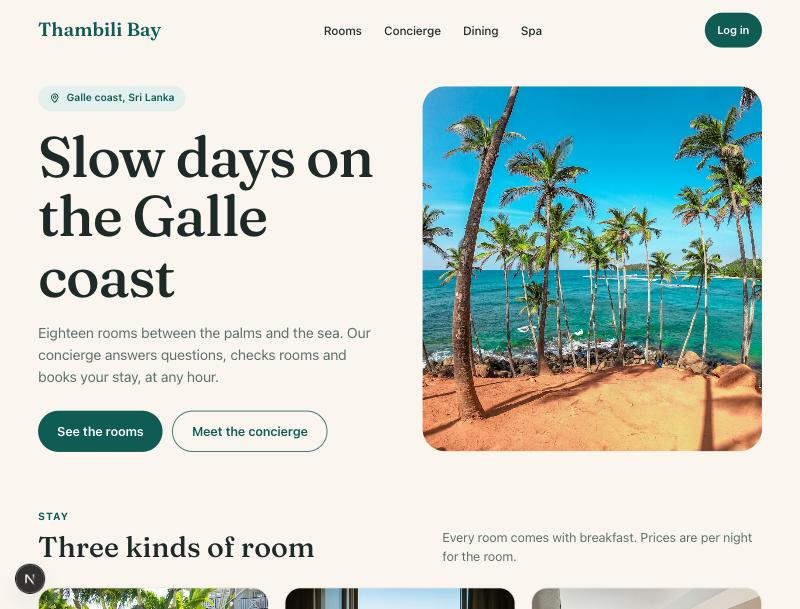
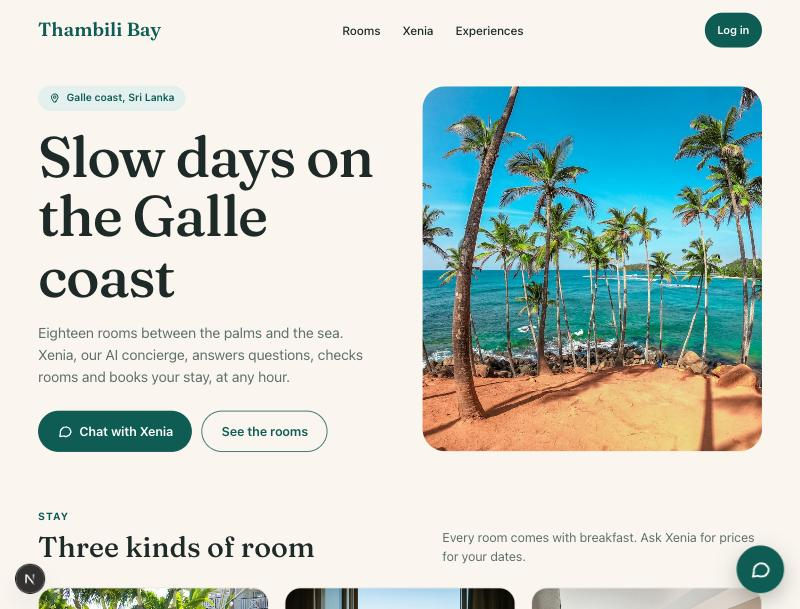
feat: show the Xenia chat panel after login and gate chat buttons behind login (web-0005)

diff --git a/src/components/ChatProvider.tsx b/src/components/ChatProvider.tsx
@@ -1,0 +1,192 @@
+"use client";
+
+import { onAuthStateChanged, type User } from "firebase/auth";
+import Link from "next/link";
+import { createContext, useContext, useEffect, useState, type ReactNode } from "react";
+import { auth } from "@/lib/firebase";
+
+type ChatState = {
+  // undefined = still checking, null = signed out
+  user: User | null | undefined;
+  open: boolean;
+  setOpen: (open: boolean) => void;
+};
+
+const ChatContext = createContext<ChatState | null>(null);
+const STORAGE_KEY = "chat-panel";
+
+function useChat() {
+  const state = useContext(ChatContext);
+  if (!state) throw new Error("useChat must be used inside ChatProvider");
+  return state;
+}
+
+// sessionStorage can throw in private windows; the panel works without it.
+function remember(value: "open" | "closed" | null) {
+  try {
+    if (value) sessionStorage.setItem(STORAGE_KEY, value);
+    else sessionStorage.removeItem(STORAGE_KEY);
+  } catch {}
+}
+
+function wasClosed() {
+  try {
+    return sessionStorage.getItem(STORAGE_KEY) === "closed";
+  } catch {
+    return false;
+  }
+}
+
+const chatIcon = (
+  <svg aria-hidden="true" width="20" height="20" viewBox="0 0 24 24" fill="none" stroke="currentColor" strokeWidth="2" strokeLinecap="round" strokeLinejoin="round">
+    <path d="M21 12a8 8 0 0 1-11.6 7.1L4 20l1-4.6A8 8 0 1 1 21 12z" />
+  </svg>
+);
+
+/** Holds the login and chat-panel state, and lays out the page beside the panel. */
+export function ChatProvider({ children }: { children: ReactNode }) {
+  const [user, setUser] = useState<User | null | undefined>(undefined);
+  const [open, setOpenState] = useState(false);
+
+  useEffect(
+    () =>
+      onAuthStateChanged(auth, (next) => {
+        setUser(next);
+        if (!next) remember(null);
+        // The chat opens after login, unless the visitor closed it earlier in this tab.
+        setOpenState(Boolean(next) && !wasClosed());
+      }),
+    [],
+  );
+
+  function setOpen(next: boolean) {
+    setOpenState(next);
+    remember(next ? "open" : "closed");
+  }
+
+  const showPanel = Boolean(user) && open;
+
+  useEffect(() => {
+    if (!showPanel) return;
+    const onKey = (event: KeyboardEvent) => {
+      if (event.key === "Escape") setOpen(false);
+    };
+    window.addEventListener("keydown", onKey);
+    return () => window.removeEventListener("keydown", onKey);
+  }, [showPanel]);
+
+  return (
+    <ChatContext.Provider value={{ user, open, setOpen }}>
+      {/* On very wide screens the page moves over; on smaller ones the panel sits on top. */}
+      <div className={showPanel ? "xl:mr-[380px]" : undefined}>
+        <div className="mx-auto flex min-h-dvh w-full max-w-[1200px] flex-col">{children}</div>
+      </div>
+      {showPanel && user ? <ChatPanel user={user} onClose={() => setOpen(false)} /> : <ChatLauncher />}
+    </ChatContext.Provider>
+  );
+}
+
+/** A button that opens the chat, or leads to the login page when signed out. */
+export function ChatCta({ className, children }: { className?: string; children: ReactNode }) {
+  const { user, setOpen } = useChat();
+  if (user) {
+    return (
+      <button type="button" className={className} onClick={() => setOpen(true)}>
+        {chatIcon}
+        {children}
+      </button>
+    );
+  }
+  return (
+    <Link href="/login" className={className}>
+      {chatIcon}
+      {children}
+    </Link>
+  );
+}
+
+function ChatLauncher() {
+  const { user } = useChat();
+  // Nothing while the login state is still loading, so the button never changes meaning mid-click.
+  if (user === undefined) return null;
+  return (
+    <ChatCta className="fixed right-5 bottom-5 z-40 flex size-15 items-center justify-center rounded-full bg-brand text-white shadow-[0_10px_28px_rgba(30,42,40,0.3)] [&>svg]:size-7">
+      <span className="sr-only">{user ? "Open chat with Xenia" : "Log in to chat with Xenia"}</span>
+    </ChatCta>
+  );
+}
+
+function ChatPanel({ user, onClose }: { user: User; onClose: () => void }) {
+  const firstName = user.displayName?.split(" ")[0];
+  return (
+    <aside
+      aria-label="Chat with Xenia, the AI concierge"
+      className="fixed inset-0 z-50 flex flex-col bg-bg lg:left-auto lg:w-[380px] lg:border-l lg:border-line lg:shadow-[-12px_0_40px_rgba(30,42,40,0.12)]"
+    >
+      <div className="flex items-center gap-3 bg-brand py-3 pr-2 pl-2 text-white lg:pl-4">
+        <button
+          type="button"
+          aria-label="Back to the site"
+          className="flex size-11 flex-none items-center justify-center rounded-full lg:hidden"
+          onClick={onClose}
+        >
+          <svg aria-hidden="true" width="20" height="20" viewBox="0 0 24 24" fill="none" stroke="currentColor" strokeWidth="2.2" strokeLinecap="round" strokeLinejoin="round">
+            <path d="M19 12H5M11 6l-6 6 6 6" />
+          </svg>
+        </button>
+        <div aria-hidden="true" className="flex size-10 flex-none items-center justify-center rounded-full bg-white font-serif text-xl font-semibold text-brand">
+          X
+        </div>
+        <div className="min-w-0 flex-1">
+          <h2 className="font-serif text-lg leading-tight font-semibold">Xenia</h2>
+          <p className="text-[12.5px]">Thambili Bay&apos;s AI concierge</p>
+        </div>
+        <button
+          type="button"
+          aria-label="Close chat"
+          className="hidden size-11 flex-none items-center justify-center rounded-full lg:flex"
+          onClick={onClose}
+        >
+          <svg aria-hidden="true" width="20" height="20" viewBox="0 0 24 24" fill="none" stroke="currentColor" strokeWidth="2" strokeLinecap="round">
+            <path d="M6 6l12 12M18 6L6 18" />
+          </svg>
+        </button>
+      </div>
+
+      <div aria-live="polite" className="flex min-h-0 flex-1 flex-col gap-2.5 overflow-y-auto p-4">
+        <p className="self-center rounded-full bg-brand-soft px-3 py-1.5 text-center text-[12.5px] text-muted">
+          Demo: please don&apos;t enter real personal details.
+        </p>
+        <p className="max-w-[85%] self-start rounded-2xl rounded-bl-sm border border-line bg-surface px-3.5 py-2.5 text-[15px]">
+          Hello{firstName ? ` ${firstName}` : ""}! I&apos;m Xenia, the concierge at Thambili Bay. Soon I&apos;ll be
+          able to check rooms, make a booking and help during your stay, right here.
+        </p>
+      </div>
+
+      <div className="border-t border-line bg-surface px-3 pt-2.5 pb-[calc(0.625rem+env(safe-area-inset-bottom))]">
+        <form className="flex items-center gap-2" onSubmit={(event) => event.preventDefault()}>
+          <input
+            type="text"
+            aria-label="Type your message"
+            placeholder="Messages open soon"
+            disabled
+            className="h-11 min-w-0 flex-1 rounded-full border border-line bg-bg px-4 text-base text-ink placeholder:text-muted disabled:opacity-70"
+          />
+          <button
+            type="submit"
+            aria-label="Send"
+            disabled
+            className="flex size-11 flex-none items-center justify-center rounded-full bg-brand text-white disabled:opacity-50"
+          >
+            <svg aria-hidden="true" width="20" height="20" viewBox="0 0 24 24" fill="none" stroke="currentColor" strokeWidth="2" strokeLinecap="round" strokeLinejoin="round">
+              <path d="M5 12h14M13 6l6 6-6 6" />
+            </svg>
+          </button>
+        </form>
+        <p className="mt-1.5 text-center text-[11.5px] text-muted">
+          Xenia is an AI and can make mistakes. Demo data only.
+        </p>
+      </div>
+    </aside>
+  );
+}

diff --git a/src/app/page.tsx b/src/app/page.tsx
@@ -1,4 +1,5 @@
 import Image from "next/image";
+import { ChatCta } from "@/components/ChatProvider";
 
 const ROOMS = [
   {
@@ -131,11 +132,11 @@ export default function Home() {
             checks rooms and books your stay, at any hour.
           </p>
           <div className="mt-7 flex flex-wrap gap-3">
-            <a href="#rooms" className="inline-flex min-h-13 items-center rounded-full bg-brand px-6 font-semibold text-white">
+            <ChatCta className="inline-flex min-h-13 items-center gap-2 rounded-full bg-brand px-6 font-semibold text-white">
+              Chat with Xenia
+            </ChatCta>
+            <a href="#rooms" className="inline-flex min-h-13 items-center rounded-full border border-brand px-6 font-semibold text-brand">
               See the rooms
-            </a>
-            <a href="#concierge" className="inline-flex min-h-13 items-center rounded-full border border-brand px-6 font-semibold text-brand">
-              Meet Xenia
             </a>
           </div>
         </div>
@@ -197,9 +198,9 @@ export default function Home() {
             </li>
           ))}
         </ul>
-        <p className="mt-7 inline-flex rounded-full bg-[#0B4741] px-4 py-2 text-sm font-semibold text-[#F2B872]">
-          The chat opens here soon
-        </p>
+        <ChatCta className="mt-7 inline-flex min-h-13 items-center gap-2 rounded-full bg-white px-6 font-semibold text-brand">
+          Chat with Xenia
+        </ChatCta>
       </section>
 
       <section id="experiences" className="mt-18 scroll-mt-6">

diff --git a/src/components/AuthForm.tsx b/src/components/AuthForm.tsx
@@ -20,7 +20,7 @@ const API_URL = process.env.NEXT_PUBLIC_API_URL;
 const COPY = {
   login: {
     title: "Welcome back",
-    intro: "Log in to your Thambili Bay account.",
+    intro: "Log in to chat with Xenia, our AI concierge.",
     submit: "Log in",
     busy: "Logging in…",
     switchText: "New here?",
@@ -29,7 +29,7 @@ const COPY = {
   },
   signup: {
     title: "Create your account",
-    intro: "It takes a minute. Only your name, email and a password are needed.",
+    intro: "Create an account to chat with Xenia, our AI concierge. It takes a minute.",
     submit: "Create account",
     busy: "Creating account…",
     switchText: "Already have an account?",

diff --git a/src/app/layout.tsx b/src/app/layout.tsx
@@ -1,5 +1,6 @@
 import type { Metadata } from "next";
 import { Fraunces } from "next/font/google";
+import { ChatProvider } from "@/components/ChatProvider";
 import { SiteHeader } from "@/components/SiteHeader";
 import "./globals.css";
 
@@ -19,9 +20,11 @@ export default function RootLayout({ children }: LayoutProps<"/">) {
       lang="en"
       className={`${fraunces.variable} h-full antialiased`}
     >
-      <body className="mx-auto flex min-h-full w-full max-w-[1200px] flex-col">
-        <SiteHeader />
-        {children}
+      <body>
+        <ChatProvider>
+          <SiteHeader />
+          {children}
+        </ChatProvider>
       </body>
     </html>
   );
